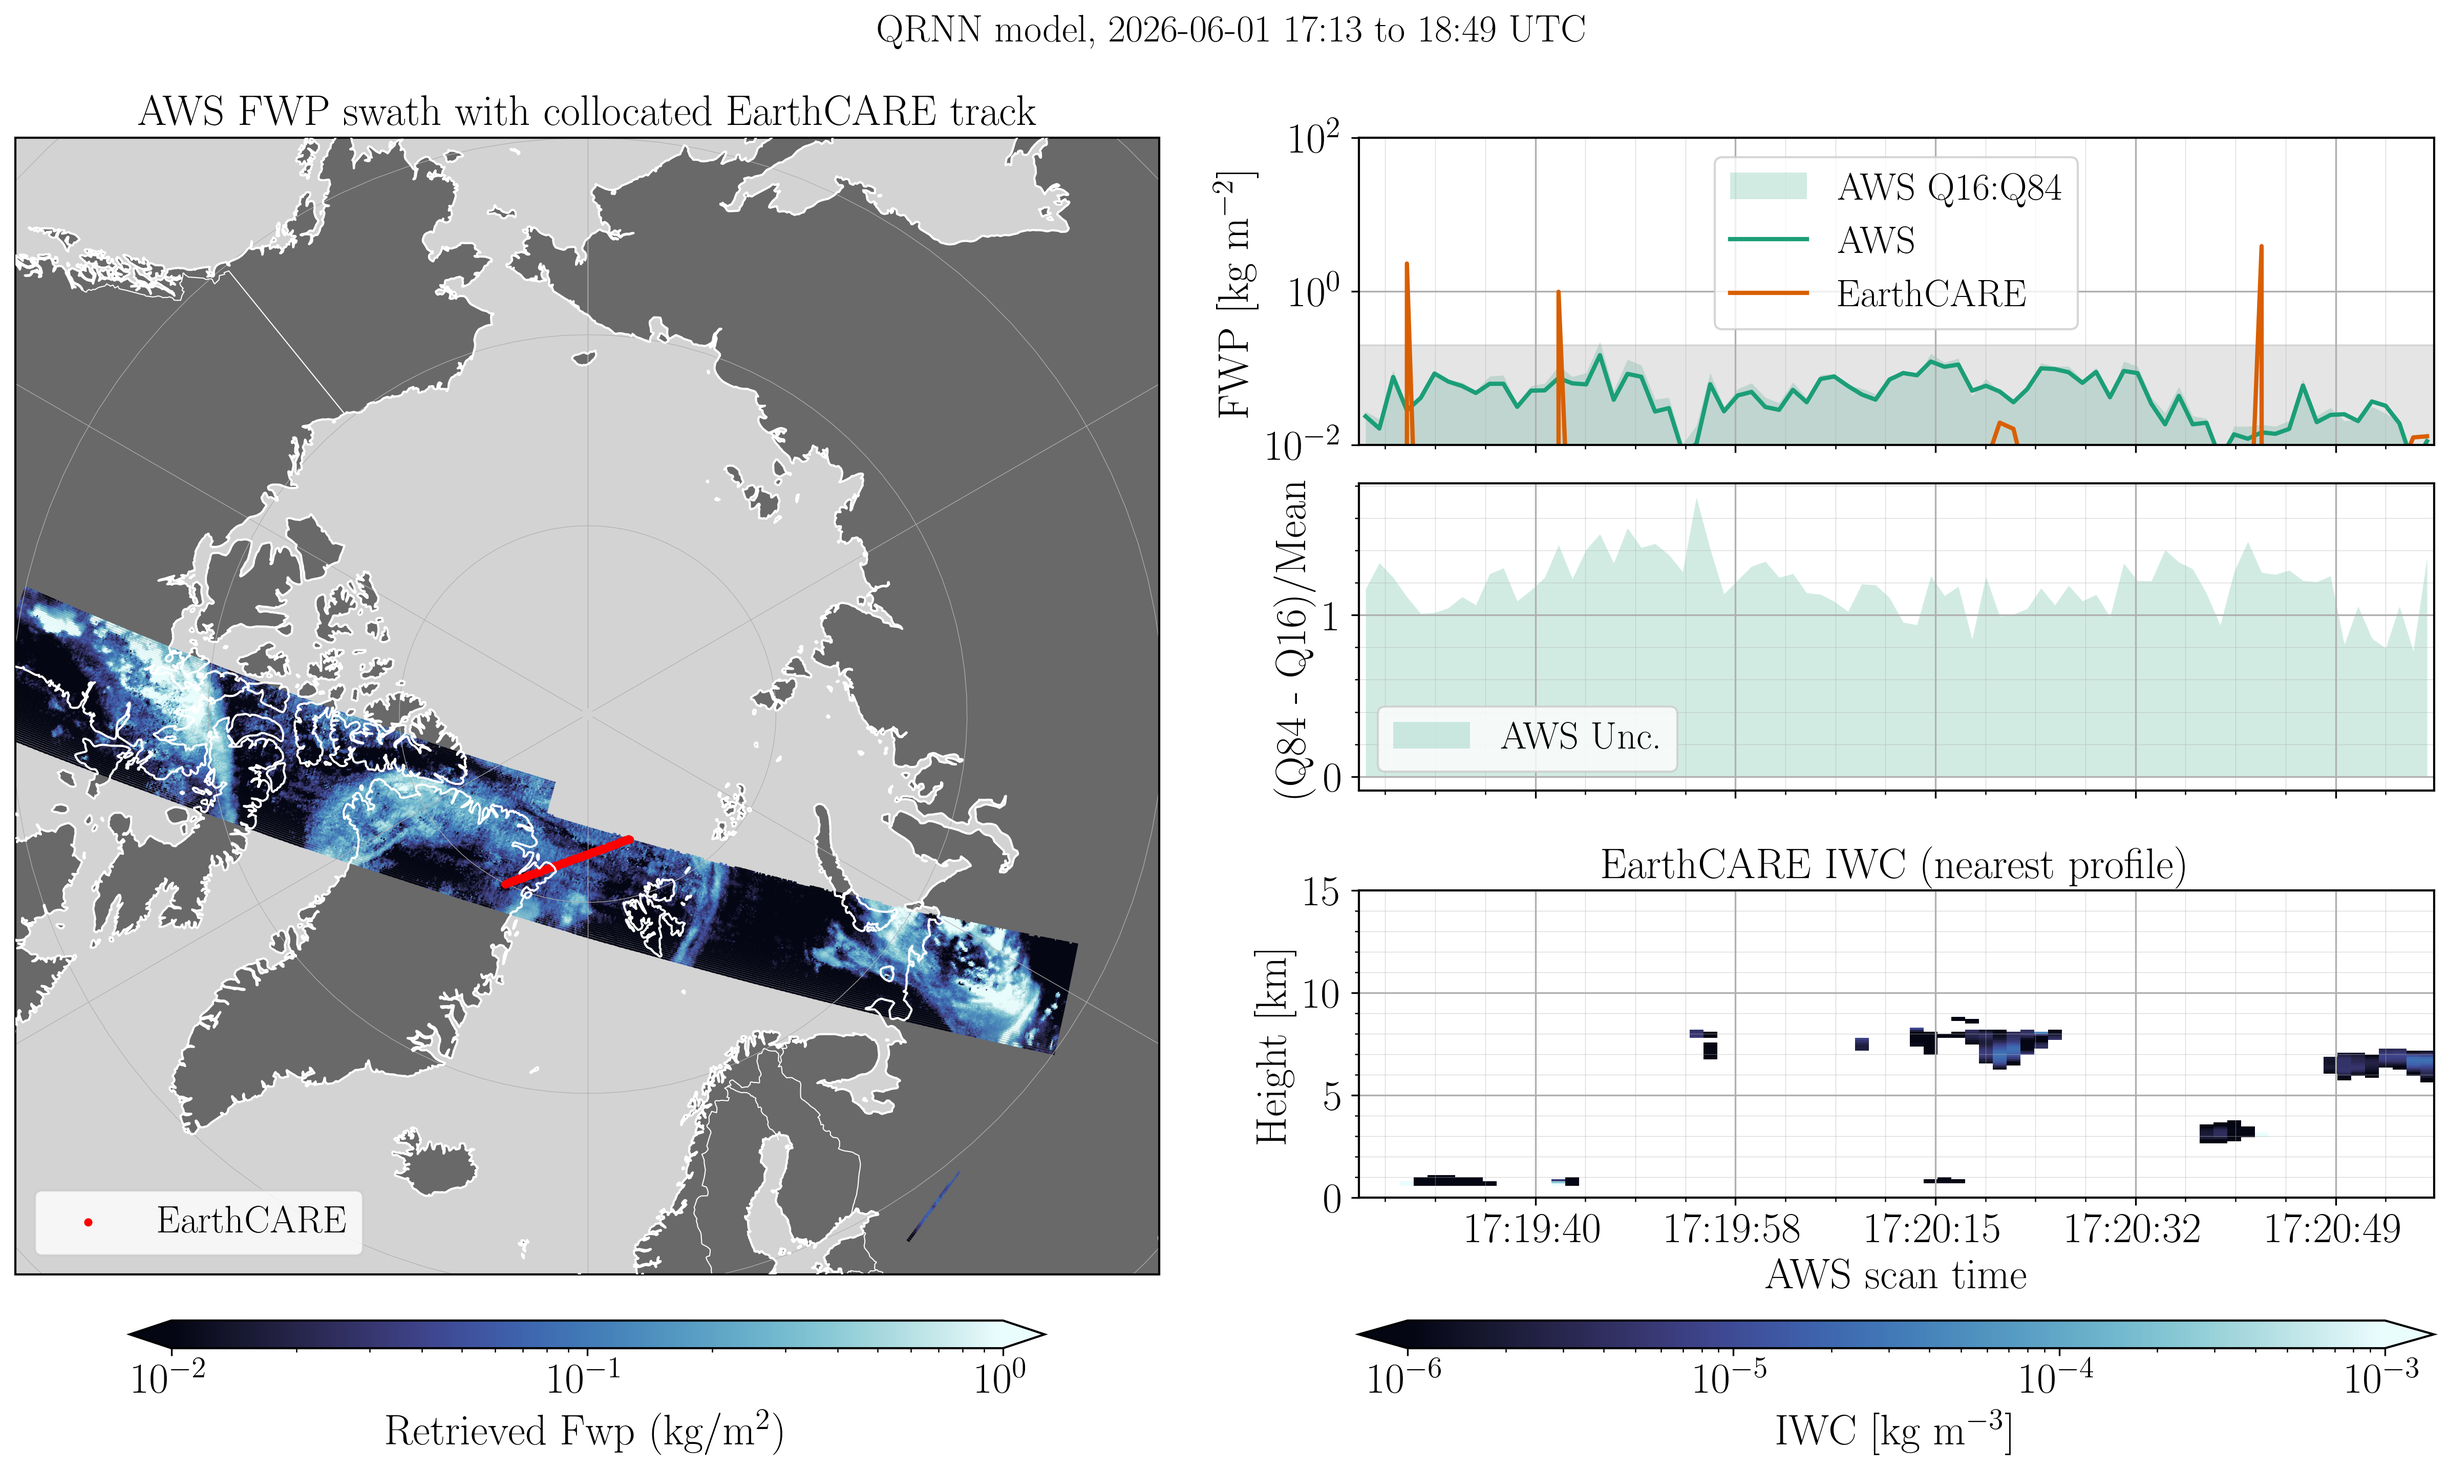
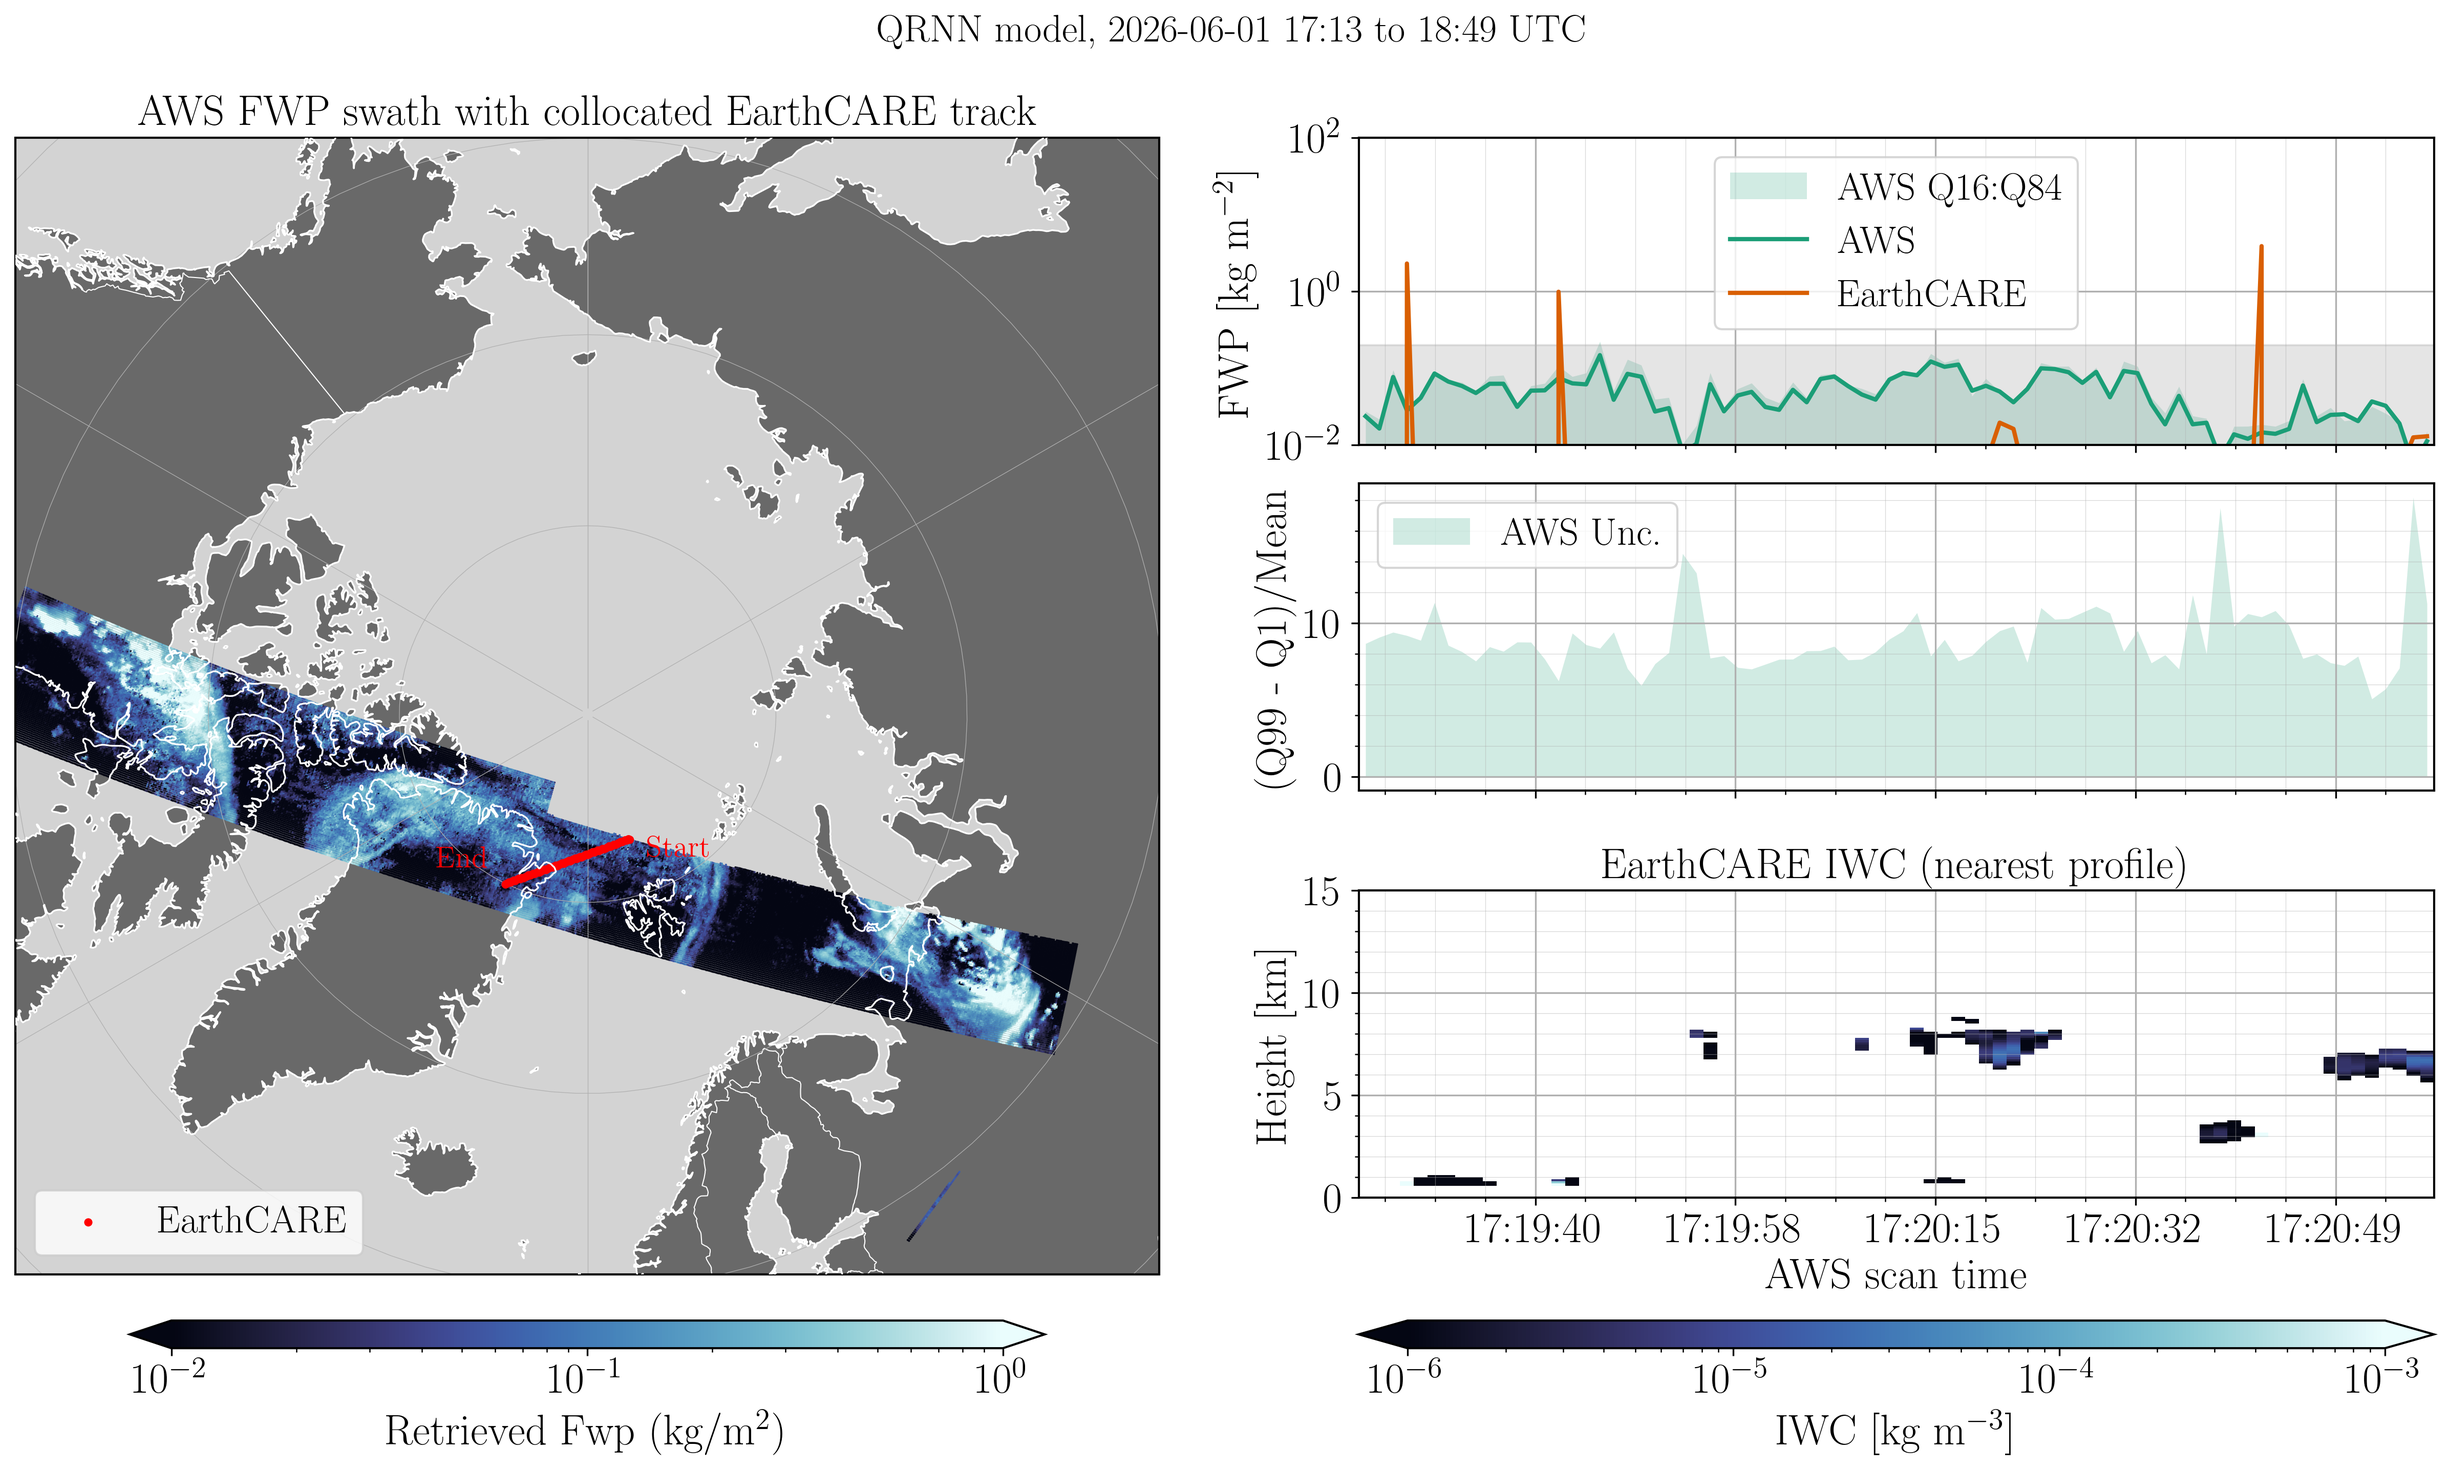
plotting

diff --git a/scripts/plotting_scripts/batch_plot_collocations.py b/scripts/plotting_scripts/batch_plot_collocations.py
@@ -61,14 +61,14 @@ VAR_LON = "longitude"
 VARIABLES = {
     "fwp": {
         "aws_var": "fwp_mean",
-        "aws": "aws_fwp", "aws_q16": "aws_fwp_q16", "aws_q84": "aws_fwp_q84",
+        "aws": "aws_fwp", "aws_q1": "aws_fwp_q1", "aws_q16": "aws_fwp_q16", "aws_q84": "aws_fwp_q84", "aws_q99": "aws_fwp_q99",
         "ea": "ea_iwp", "wc": "ea_iwc",
         "name": "FWP", "map_name": "Fwp", "wc_name": "IWC",
         "cmap": cmc.cm.ice, "wc_vmin": 1e-6, "wc_vmax": 1e-3,
     },
     "lwp": {
         "aws_var": "lwp_mean",
-        "aws": "aws_lwp", "aws_q16": "aws_lwp_q16", "aws_q84": "aws_lwp_q84",
+        "aws": "aws_lwp", "aws_q1": "aws_lwp_q1", "aws_q16": "aws_lwp_q16", "aws_q84": "aws_lwp_q84", "aws_q99": "aws_lwp_q99",
         "ea": "ea_lwp", "wc": "ea_lwc",
         "name": "LWP", "map_name": "Lwp", "wc_name": "LWC",
         "cmap": cmc.cm.matter_r, "wc_vmin": 1e-6, "wc_vmax": 1e-3,
@@ -222,7 +222,7 @@ def plot_collocation(ds, col, title, out_path, args):
     ax_map.add_feature(cfeature.OCEAN, facecolor="lightgrey", zorder=0)
     ax_map.add_feature(cfeature.LAND, facecolor="dimgrey", zorder=0)
     ax_map.add_feature(cfeature.BORDERS, edgecolor="white", linewidth=0.5, zorder=1)
-    ax_map.coastlines(color="white", linewidth=1, zorder=100)
+    ax_map.coastlines(color="white", linewidth=0.8, zorder=10)
 
     sc = ax_map.scatter(
         lon, lat, c=aws_map, s=args.marker_size,
@@ -237,6 +237,20 @@ def plot_collocation(ds, col, title, out_path, args):
     ax_map.set_title(f"AWS {v['name']} swath with collocated EarthCARE track")
     fig.colorbar(sc, cax=cax_map, orientation="horizontal", extend="both",
                  label=rf"Retrieved {v['map_name']} (kg/m$^{{2}}$)")
+
+    # label the ends of the track, matching the first and last times in the line plots
+    track_lon = col["lon"][sel]
+    track_lat = col["lat"][sel]
+    geo = ccrs.PlateCarree()._as_mpl_transform(ax_map)
+    for i, text, offset in [(0, "Start", (8, -8)), (-1, "End", (-8, 8))]:
+        #ax_map.plot(track_lon[i], track_lat[i], marker="o", ms=6, color="black",
+                    #transform=ccrs.PlateCarree(), zorder=4)
+        ax_map.annotate(text, xy=(track_lon[i], track_lat[i]), xycoords=geo,
+                        xytext=offset, textcoords="offset points",
+                        ha="right" if offset[0] < 0 else "left",
+                        fontsize=14, fontweight="bold", color="red", zorder=11,
+                        )
+                        #bbox=dict(boxstyle="round,pad=0.2", fc="white", ec="none", alpha=0.8))
 
     # ---- FWP and IWP along the track ----
     ax = ax_fwp
@@ -271,11 +285,13 @@ def plot_collocation(ds, col, title, out_path, args):
     ax.tick_params(labelbottom=False)
     """
     # ---- cdf width ----
+    q1 = col[v["aws_q1"]][sel]
+    q99 = col[v["aws_q99"]][sel]
     ax = ax_cdf
-    ax.fill_between(x, 0, (q84-q16)/aws, color="C0", alpha=0.2, lw=0, label="AWS Unc.")
+    ax.fill_between(x, 0, (q99-q1)/aws, color="C0", alpha=0.2, lw=0, label="AWS Unc.")
     
     #ax.plot(x, ea, color="C1", ls=":", label="EarthCARE", lw=2)
-    ax.set_ylabel(r"(Q84 - Q16)/Mean")
+    ax.set_ylabel(r"(Q99 - Q1)/Mean")
     ax.legend()
     style_time_axis(ax)
     ax.tick_params(labelbottom=False)

diff --git a/scripts/compute_aws_earthcare_coloc_stats.py b/scripts/compute_aws_earthcare_coloc_stats.py
@@ -8,8 +8,10 @@ Mirrors the calling of find_collocations.py, i.e. calling with the argument 2025
 loads the list of collocations created by calling 'python find_collocations.py 2025-07'
 
 To use:
-python compute_aws_earthcare_coloc_stats.py 2025-07              # one month
-python compute_aws_earthcare_coloc_stats.py 2025-12 2026-02      # range, both months included
+python compute_aws_earthcare_coloc_stats.py 2025-07                    # one month
+python compute_aws_earthcare_coloc_stats.py 2025-12:2026-02            # range, both months included
+python compute_aws_earthcare_coloc_stats.py 2025-07 2025-08 2026-06    # separate months
+python compute_aws_earthcare_coloc_stats.py 2025-07:2025-08 2026-06    # ranges and months mixed
 """
 
 import argparse
@@ -41,15 +43,32 @@ data_dir = Path("/home/maye/AWS_Arctic/data")
 # ============================================================
 # COLLOCATION PAIRS
 # ============================================================
-p = argparse.ArgumentParser()
-p.add_argument("start", help="first month, YYYY-MM")
-p.add_argument("end", nargs="?", help="last month, YYYY-MM (default: same as start)")
-args = p.parse_args()
+def parse_months():
+    """The months to process, and a name for them to use in file names.
 
-months = pd.period_range(args.start, args.end or args.start, freq="M")
-if len(months) == 0:
-    p.error("the end month is before the start month")
-span = f"{months[0]}" if len(months) == 1 else f"{months[0]}_to_{months[-1]}"
+    Same as in find_collocations.py, so the same arguments give the same file name.
+    """
+    p = argparse.ArgumentParser(description=__doc__,
+                                formatter_class=argparse.RawDescriptionHelpFormatter)
+    p.add_argument("months", nargs="+",
+                   help="months as YYYY-MM, or ranges as YYYY-MM:YYYY-MM (both included)")
+    args = p.parse_args()
+
+    months, names = [], []
+    for item in args.months:
+        start, _, end = item.partition(":")
+        try:
+            rng = pd.period_range(start, end or start, freq="M")
+        except ValueError as err:
+            p.error(f"could not read {item}: {err}")
+        if len(rng) == 0:
+            p.error(f"{item}: the end month is before the start month")
+        months.extend(rng)
+        names.append(f"{rng[0]}" if len(rng) == 1 else f"{rng[0]}_to_{rng[-1]}")
+    return sorted(set(months)), "_".join(names)
+
+
+months, span = parse_months()
 
 pairs_file = data_dir / f"earthcare_aws_file_pairs_{span}.pkl"
 out_file = data_dir / f"aws_earthcare_histograms_{span}.pkl"

diff --git a/scripts/utils.py b/scripts/utils.py
@@ -22,7 +22,7 @@ def load_aws(aws_filepath, start=0, end=400):
         for var in ("fwp", "lwp"):
             aws[var] = ds[f"{var}_mean"][start:end, :].values.ravel()
             quantiles = ds[f"{var}_quantiles"][start:end, :]
-            for q in (16, 84):
+            for q in (1, 16, 84, 99):
                 aws[f"{var}_q{q}"] = quantiles.sel(quantile=q / 100, method="nearest").values.ravel()
     return aws
 
@@ -68,7 +68,8 @@ def colocate_nearest_profile(aws, ea, max_dist_km=5.0):
 
     out = {"lat": [], "lon": [], "scan": [], "aws_fwp": [], "ea_iwp": [],
            "ea_iwc": [], "aws_lwp": [], "ea_lwp": [], "ea_lwc": [],
-           "aws_fwp_q16": [], "aws_fwp_q84": [], "aws_lwp_q16": [], "aws_lwp_q84": [],
+           "aws_fwp_q1": [], "aws_fwp_q16": [], "aws_fwp_q84": [], "aws_fwp_q99": [],
+           "aws_lwp_q1": [], "aws_lwp_q16": [], "aws_lwp_q84": [], "aws_lwp_q99": [],
            "ea_height": [], "dist_km": []}
 
     if ea_idx.size > 0:
@@ -107,7 +108,7 @@ def colocate_nearest_profile(aws, ea, max_dist_km=5.0):
             out["ea_lwc"].append(ea["lwc"][p])
             out["ea_height"].append(ea["height"][p])
             out["dist_km"].append(d[i])
-            for key in ("fwp_q16", "fwp_q84", "lwp_q16", "lwp_q84"):
+            for key in ("fwp_q1", "fwp_q16", "fwp_q84", "fwp_q99", "lwp_q1", "lwp_q16", "lwp_q84", "lwp_q99"):
                 out[f"aws_{key}"].append(aws[key][j])
 
     return {key: np.asarray(val) for key, val in out.items()}
